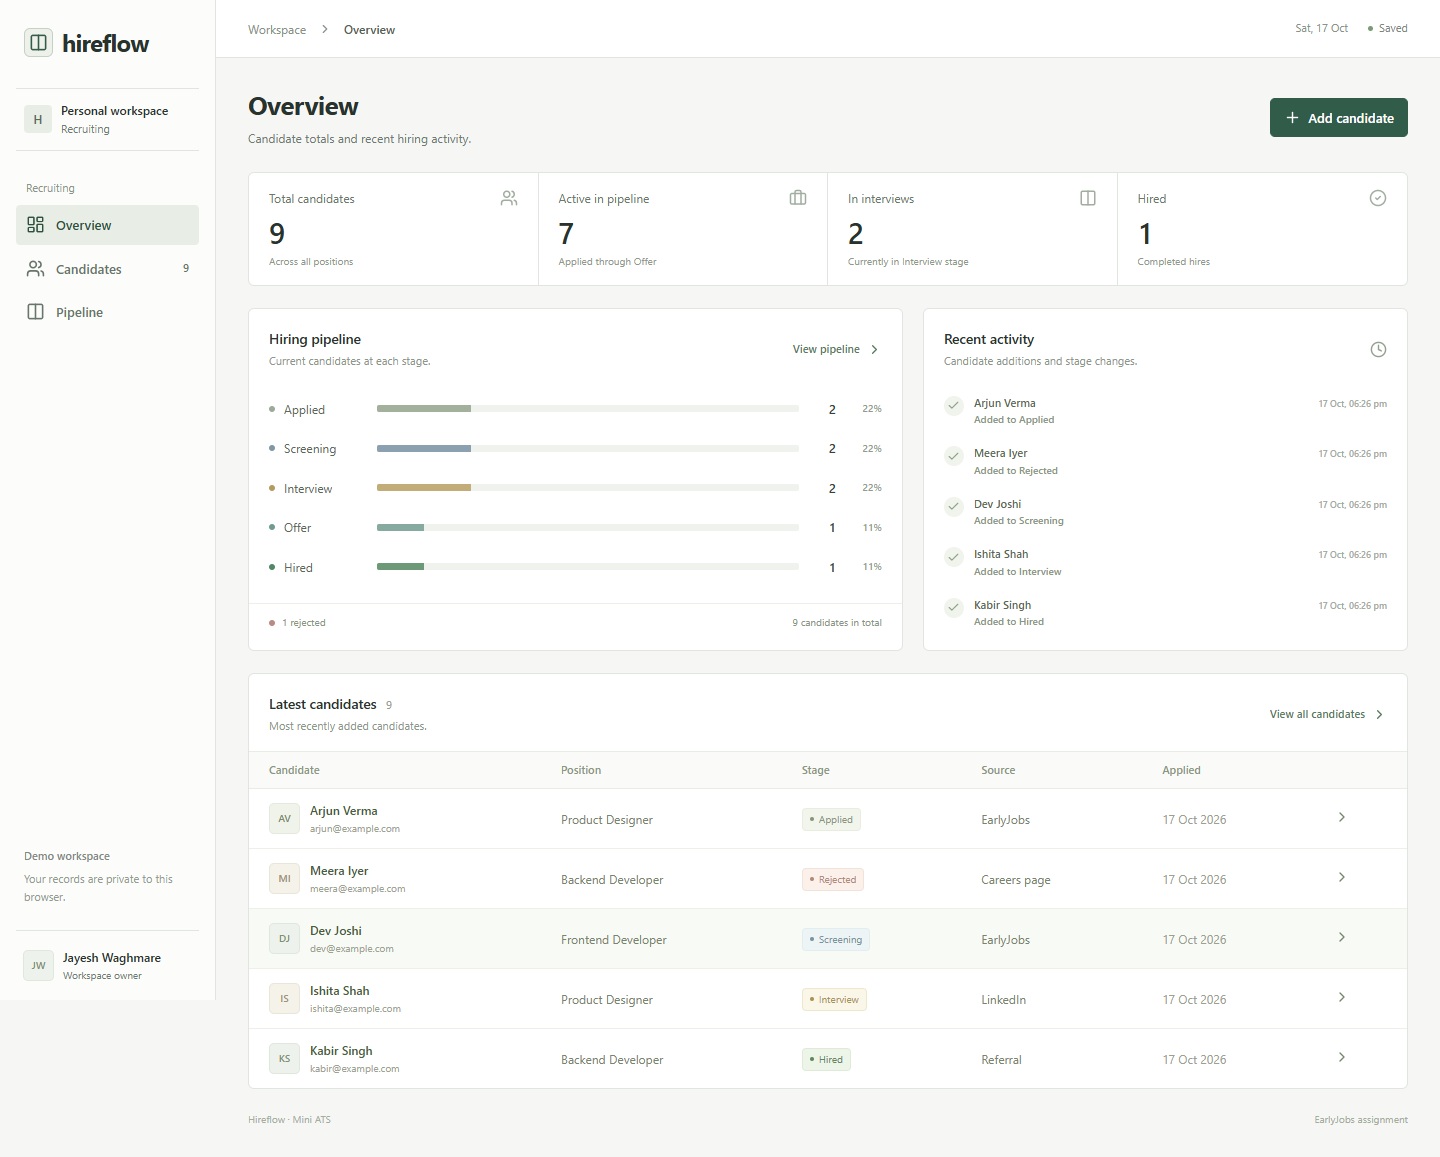
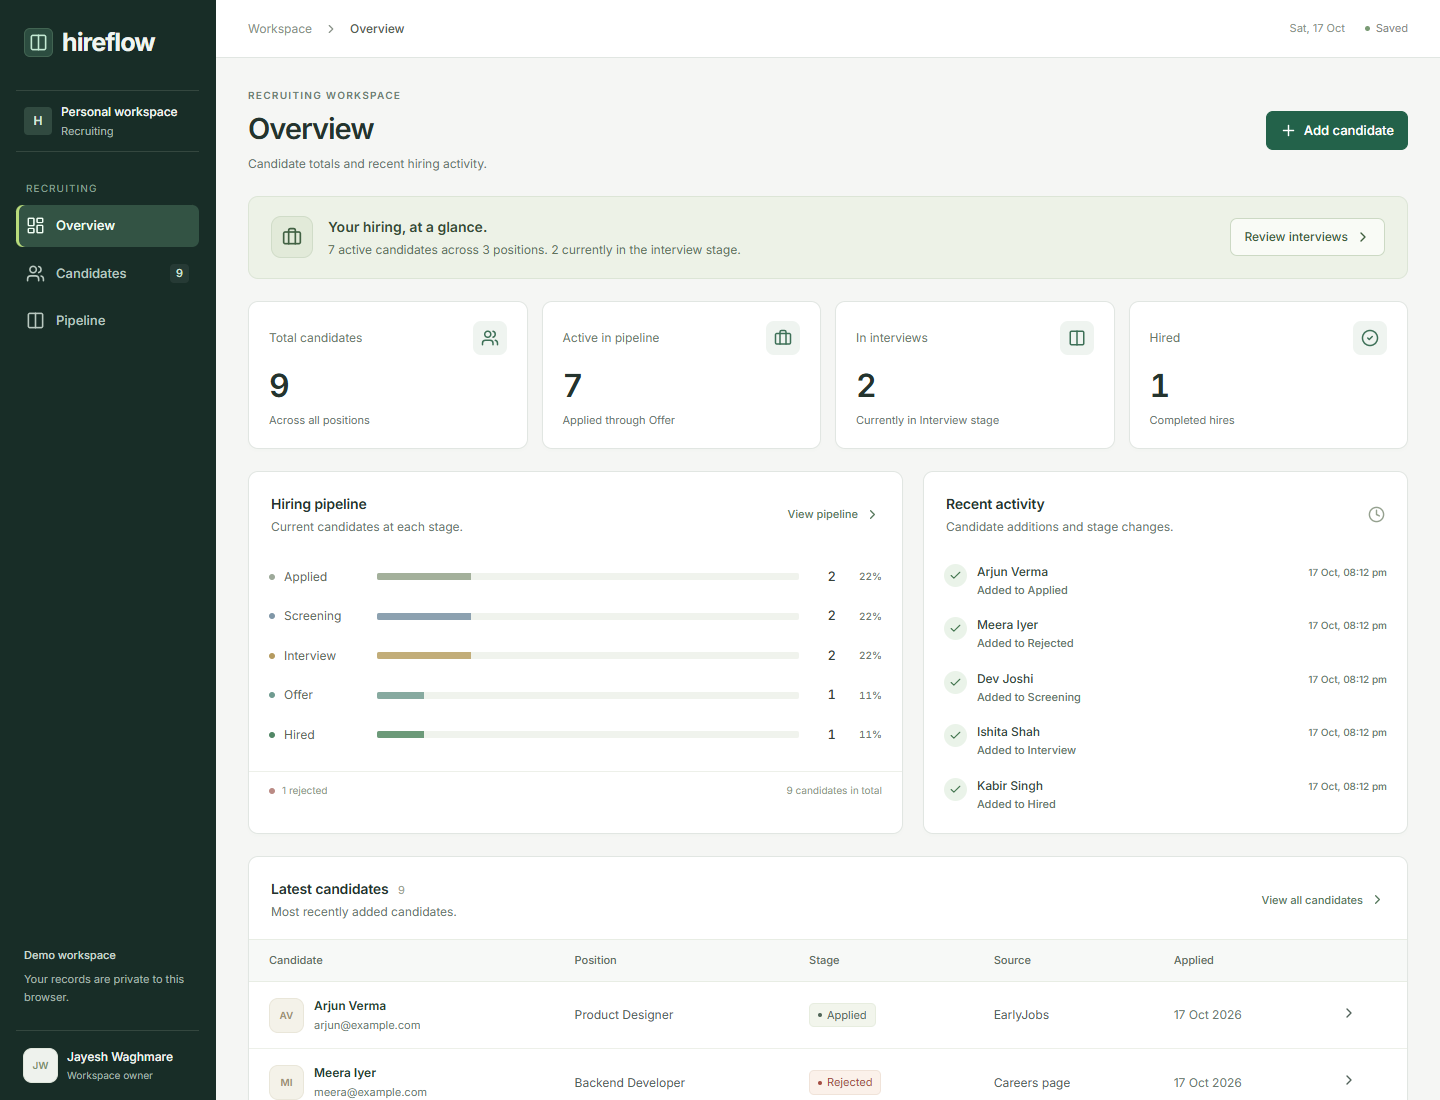
Update frontend screenshots, demo capture and browser theme

diff --git a/index.html b/index.html
@@ -5,7 +5,7 @@
     <link rel="icon" type="image/svg+xml" href="/favicon.svg" />
     <meta name="viewport" content="width=device-width, initial-scale=1.0" />
     <meta name="description" content="A focused workspace for candidates, hiring pipelines and recruitment insights." />
-    <meta name="theme-color" content="#7860d7" />
+    <meta name="theme-color" content="#182d27" />
     <title>Hireflow | Mini Applicant Tracking System</title>
   </head>
   <body>

diff --git a/README.md b/README.md
@@ -8,6 +8,8 @@ A small recruiting app for the EarlyJobs assignment: candidate management, hirin
 
 ![Overview](docs/overview.png)
 
+![Candidate table](docs/candidates.png)
+
 ## Features
 
 - Add, view, edit and delete candidates with server-side validation and duplicate-email checks.
